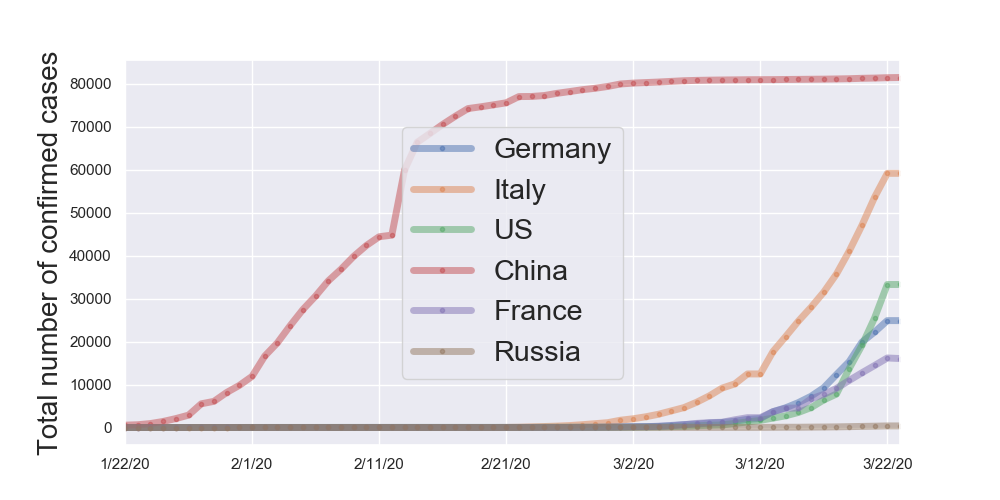
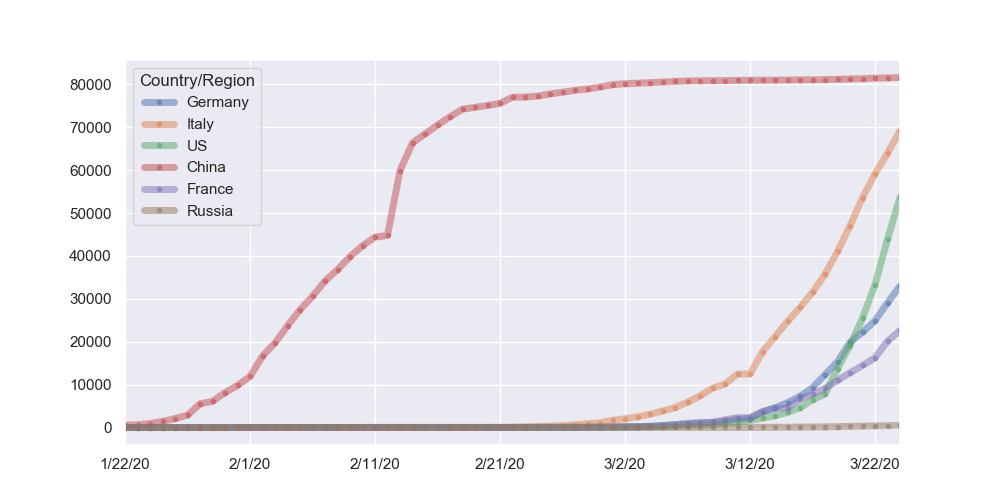
Daily UPD

diff --git a/COVID.py b/COVID.py
@@ -123,9 +123,8 @@ plt.savefig('/Users/mminakova/Documents/COVID/covid_tracker/covid/Acceleration a
 
 cols_plot = ['Germany', 'Italy', 'US', 'China', 'France', 'Russia']
 axes = diff[cols_plot].plot(marker='.', alpha=0.5, linestyle='-', linewidth = 5, figsize=(10, 5))
-for ax in axes:
-    ax.set_ylabel('Total number of confirmed cases', fontsize = 15)
-    ax.legend(fontsize = 'medium')
+ax.set_ylabel('Total number of confirmed cases', fontsize = 15)
+ax.legend(fontsize = 'medium')
 plt.savefig('/Users/mminakova/Documents/COVID/covid_tracker/covid/Total number of confirmed cases.png')
 
 
